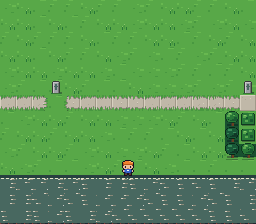
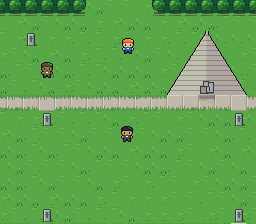
Stage 2: signs, markers and talking NPCs; play test in CI
- export: reads, NPC lines (via the game's own TALK functions), NPC sprites, Press Start 2P font
- snesconv: word-wrapped text pages, per-map read grid and NPC table, NPC OBJ sheets and palettes,
  BG3 2bpp font with box frame; text colours reserved in BG palette 0
- ROM: BG3 text box with typewriter text, A to read or talk, NPCs face the hero, NPC collision
- tools/sneslab.py: drive the ROM in snes9x with path-finding and WRAM symbols

Claude-Session: https://claude.ai/code/session_01Eoe2yVEh43m1ZbqZR2H1i4

diff --git a/tools/sneslab.py b/tools/sneslab.py
@@ -1,0 +1,125 @@
+"""Drive the ROM in the snes9x core for tests: read game variables from WRAM by symbol,
+path-find over the collision grid, steer the hero, press buttons, take screenshots.
+
+    lab = Lab('RiverCityQuest.sfc', 'RiverCityQuest.sym', repo_root)
+    lab.run(None, 120)
+    lab.walk_to_cell(7, 9); lab.face('down'); lab.press('A')
+"""
+import os
+from collections import deque
+import numpy as np
+import stable_retro as retro
+from PIL import Image
+
+ORDER = ['B', 'Y', 'SELECT', 'START', 'UP', 'DOWN', 'LEFT', 'RIGHT', 'A', 'X', 'L', 'R']
+DIRS = {'down': 'DOWN', 'up': 'UP', 'left': 'LEFT', 'right': 'RIGHT'}
+MAP_W, MAP_H, HALF = 32, 22, 5
+
+
+class Lab:
+    def __init__(self, rom, sym, root):
+        self.emu = retro.RetroEmulator(rom)
+        self.data = retro.data.GameData()
+        self.emu.configure_data(self.data)
+        self.root = root
+        self.sym = {}
+        for line in open(sym):
+            parts = line.split()
+            if len(parts) == 2 and not parts[0].startswith('['):
+                try:
+                    self.sym[parts[1]] = int(parts[0], 16)
+                except ValueError:
+                    pass
+
+    # ---------- memory ----------
+    def ram(self, name, size=1, signed=False, index=0):
+        self.data.update_ram()
+        addr = self.sym[name] + index * size
+        wram = self.data.memory.blocks[0x7E0000]
+        off = addr - 0x7E0000
+        v = int(wram[off]) | (int(wram[off + 1]) << 8 if size == 2 else 0)
+        if signed and size == 2 and v >= 0x8000:
+            v -= 0x10000
+        return v
+
+    @property
+    def pos(self):
+        return self.ram('px', 2, True), self.ram('py', 2, True)
+
+    @property
+    def map(self):
+        return self.ram('curMap')
+
+    # ---------- input ----------
+    def run(self, buttons, frames):
+        mask = np.zeros(12, dtype=np.uint8)
+        for b in (buttons or '').split('+'):
+            if b:
+                mask[ORDER.index(b.upper())] = 1
+        for _ in range(frames):
+            self.emu.set_button_mask(mask, 0)
+            self.emu.step()
+
+    def press(self, button, settle=2):
+        self.run(button, 1)
+        self.run(None, settle)
+
+    def screenshot(self, path):
+        Image.fromarray(self.emu.get_screen()).save(path)
+
+    # ---------- movement ----------
+    def solid_grid(self):
+        col = open(os.path.join(self.root, 'data', f'm{self.map}.col'), 'rb').read()
+        grid = [[col[y * MAP_W + x] for x in range(MAP_W)] for y in range(MAP_H)]
+        for k in range(self.ram('npcCount')):
+            nx, ny = self.ram('npcX', 2, True, k), self.ram('npcY', 2, True, k)
+            grid[ny // 16][nx // 16] = 1
+        return grid
+
+    def path(self, goal):
+        grid = self.solid_grid()
+        x, y = self.pos
+        start = (x // 16, y // 16)
+        prev, q = {start: None}, deque([start])
+        while q:
+            c = q.popleft()
+            if c == goal:
+                break
+            for dx, dy in ((1, 0), (-1, 0), (0, 1), (0, -1)):
+                n = (c[0] + dx, c[1] + dy)
+                if 0 <= n[0] < MAP_W and 0 <= n[1] < MAP_H and n not in prev and not grid[n[1]][n[0]]:
+                    prev[n] = c
+                    q.append(n)
+        if goal not in prev:
+            raise RuntimeError(f'no path from {start} to {goal}')
+        out, c = [], goal
+        while c:
+            out.append(c)
+            c = prev[c]
+        return out[::-1]
+
+    def steer_to(self, tx, ty, limit=400):
+        """Walk to pixel (tx, ty), one axis at a time, using the live position."""
+        for _ in range(limit):
+            x, y = self.pos
+            if abs(x - tx) <= 1 and abs(y - ty) <= 1:
+                return True
+            if abs(x - tx) > 1:
+                self.run('RIGHT' if tx > x else 'LEFT', 1)
+            else:
+                self.run('DOWN' if ty > y else 'UP', 1)
+        return False
+
+    def walk_to_cell(self, cx, cy):
+        for c in self.path((cx, cy))[1:]:
+            if not self.steer_to(c[0] * 16 + 8, c[1] * 16 + 8):
+                raise RuntimeError(f'stuck near {self.pos} heading for cell {c}')
+        self.run(None, 2)
+
+    def face(self, d):
+        """Turn without moving: tap the direction for one frame, then step back if it moved."""
+        x, y = self.pos
+        self.run(DIRS[d], 1)
+        self.steer_to(x, y, 20)
+        self.run(DIRS[d], 1)
+        self.run(None, 1)

diff --git a/tools/boottest.py b/tools/boottest.py
@@ -1,28 +1,13 @@
 #!/usr/bin/env python3
-"""Boot the ROM in the snes9x core (via stable-retro), walk south from the start in the Fan
-into Hollywood Cemetery, and check the screen at each step. Saves screenshots to <out-dir>.
-Usage: boottest.py RiverCityQuest.sfc <out-dir>"""
+"""Play the ROM in the snes9x core and check each stage still works. Saves screenshots.
+Usage: boottest.py RiverCityQuest.sfc RiverCityQuest.sym <out-dir>"""
 import os, sys
 import numpy as np
-import stable_retro as retro
-from PIL import Image
+from sneslab import Lab
 
-ORDER = ['B', 'Y', 'SELECT', 'START', 'UP', 'DOWN', 'LEFT', 'RIGHT', 'A', 'X', 'L', 'R']
-rom, out = sys.argv[1], sys.argv[2]
+rom, sym, out = sys.argv[1], sys.argv[2], sys.argv[3]
 os.makedirs(out, exist_ok=True)
-emu = retro.RetroEmulator(rom)
-
-
-def run(button, frames):
-    mask = np.zeros(12, dtype=np.uint8)
-    if button:
-        mask[ORDER.index(button)] = 1
-    for _ in range(frames):
-        emu.set_button_mask(mask, 0)
-        emu.step()
-    return emu.get_screen().copy()
-
-
+root = os.path.dirname(os.path.dirname(os.path.abspath(__file__)))
 ok = True
 
 
@@ -32,17 +17,45 @@ def check(cond, msg):
     ok &= bool(cond)
 
 
-start = run(None, 120)
-Image.fromarray(start).save(f'{out}/1-the-fan.png')
-check(start.std() > 10, 'boots to a drawn map, not a blank screen')
+def screen():
+    return lab.emu.get_screen().astype(int)
 
-walked = run('DOWN', 60)
-check(np.abs(walked.astype(int) - start).mean() > 1, 'walking down scrolls the view')
 
-south = run('DOWN', 400)
-south = run(None, 40)
-Image.fromarray(south).save(f'{out}/2-hollywood-cemetery.png')
-# Hollywood Cemetery is mostly grass: far more green than the Fan's street grid.
-green = lambda im: float(((im[..., 1] > im[..., 0] + 30) & (im[..., 1] > im[..., 2] + 30)).mean())
-check(green(south) > green(start) + 0.15, f'walked into the next neighborhood (green {green(start):.2f} -> {green(south):.2f})')
+# Stage 1: boot, walk, change neighborhood.
+lab = Lab(rom, sym, root)
+lab.run(None, 120)
+check(screen().std() > 10, 'boots to a drawn map')
+check(lab.map == 11, f'starts in the Fan (map {lab.map})')
+lab.screenshot(f'{out}/1-the-fan.png')
+
+# Stage 2: read the Arthur Ashe marker (cell 7,10) from the path above it.
+lab.walk_to_cell(7, 9)
+lab.face('down')
+before = screen()
+lab.press('A', 70)
+check(lab.ram('boxState') != 0, 'A on a marker opens the text box')
+check(np.abs(screen() - before).mean() > 3, 'the box is drawn on screen')
+lab.screenshot(f'{out}/2-reading.png')
+for _ in range(12):
+    if lab.ram('boxState') == 0:
+        break
+    lab.press('A', 4)
+check(lab.ram('boxState') == 0, 'A pages through and closes the box')
+
+# Stage 2: talk to the Runner (cell 26,6) from below; he should turn to face us.
+lab.walk_to_cell(26, 7)
+lab.face('up')
+lab.press('A', 60)
+check(lab.ram('boxState') != 0, 'A next to a person starts a conversation')
+check(lab.ram('npcDir', 1, index=1) == 0, 'the person turns to face the hero')
+lab.screenshot(f'{out}/3-talking.png')
+while lab.ram('boxState'):
+    lab.press('A', 4)
+
+# Stage 1: walk off the south edge into Hollywood Cemetery.
+lab.walk_to_cell(16, 21)
+lab.run('DOWN', 60)
+lab.run(None, 40)
+check(lab.map == 17, f'walked south into Hollywood Cemetery (map {lab.map})')
+lab.screenshot(f'{out}/4-hollywood-cemetery.png')
 sys.exit(0 if ok else 1)

diff --git a/ROADMAP.md b/ROADMAP.md
@@ -17,8 +17,8 @@ Super Nintendo ROM, built in stages. Each stage ends with a ROM that boots and p
 | Resource | Limit | Plan |
 |---|---|---|
 | BG tiles per layer | 1,024 (4bpp) | Speckle limited to 4 variants per tile type. Busiest map: 466 tiles. |
-| BG palettes | 8 × 15 colours | Greedy packing per map, global median cut if needed |
-| VRAM | 64 KB | BG1 tiles 0x0000, BG1 map 0x4000 (64×64), sprites 0x6000, BG3 HUD/text later |
+| BG palettes | 8 × 15 colours | Greedy packing per map, global median cut if needed. Palette 0 keeps 3 colours for the text layer (BG3 shares CGRAM 1-3). |
+| VRAM | 64 KB | BG1 tiles 0x0000, BG1 map 0x4000 (64×64), BG3 font 0x5000, BG3 map 0x5800, sprites 0x6000 (hero tiles 0-31, NPCs 32-127) |
 | Work RAM | 128 KB | Game state, NPCs, enemies; save data to SRAM |
 | ROM | 1 MB now, up to 4 MB | Each outdoor map is about 26 KB |
 | Sprites | 128 on screen, 32 per scanline | Hero, enemies, NPCs, pickups, effects |
@@ -27,7 +27,8 @@ Super Nintendo ROM, built in stages. Each stage ends with a ROM that boots and p
 ## Stages
 
 1. **Walk Richmond** (done in first build). All 24 outdoor neighbourhoods with the web game's art, the hero with walk frames, collision, scrolling and fades between neighbourhoods.
-2. **Text and talking.** BG3 font and dialogue box, signs, NPCs standing in place, the journal's 66 stories (English, then Spanish).
+2. **Text and talking** (done). BG3 font (Press Start 2P) and dialogue box, markers, landmarks, murals and lamps, 70 NPCs standing in place with their lines.
+   Still to come with later stages: the journal menu for the 66 stories, Spanish text, NPCs walking around, and talk that changes with progress (gifts, trades and challenges currently show their opening lines only).
 3. **Combat.** Paddle swing and spin attack, hearts, enemies from the web game with their behaviour, pickups, death and continue.
 4. **Doors and interiors.** Building entrances, the 11 interiors, the row house and the dog, shops and rupees.
 5. **Dungeons.** Small keys, locked doors, push blocks, braziers, cracked walls. One dungeon end to end first (Tredegar), then the other six and the finale.

diff --git a/README.md b/README.md
@@ -9,13 +9,18 @@ Open it in any SNES emulator (Snes9x, bsnes, Mesen, RetroArch; Snes9x EX+ on And
 
 | | |
 |---|---|
+| ![Reading a marker](screenshots/reading.png) | ![Talking to the Runner](screenshots/talking.png) |
+| Reading the Arthur Ashe marker in the Fan | Talking to the Runner |
 | ![The Fan](screenshots/the-fan.png) | ![Hollywood Cemetery](screenshots/hollywood-cemetery.png) |
 | The Fan, where you start | Walk south into Hollywood Cemetery |
 
 ## What works so far
 
-Stage 1: walk all 24 outdoor neighbourhoods, from Richmond Raceway to Ancarrow's Landing, using the web game's art. Walk off any edge into the next neighbourhood. Start is in the Fan.
-Every build is booted in the snes9x core in CI and walked from the Fan into Hollywood Cemetery.
+- **Stage 1:** walk all 24 outdoor neighbourhoods, from Richmond Raceway to Ancarrow's Landing, using the web game's art. Walk off any edge into the next neighbourhood. Start is in the Fan.
+- **Stage 2:** press A to read historical markers, landmarks, signs, murals and gas lamps, and to talk to the 70 people standing around town, in the web game's own pixel font. People turn to face you and cycle through their lines.
+
+Every build is played in the snes9x core in CI: it reads a marker, talks to someone and walks into the next neighbourhood (`tools/boottest.py`, driven by `tools/sneslab.py`).
+Branch builds are published as `dev-<branch>` pre-releases for testing.
 
 See [ROADMAP.md](ROADMAP.md) for the stages still to come.
 
